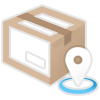
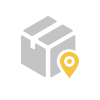
메뉴 아이콘, status 아이콘, 프로그레스 바, 정렬간격 등

diff --git a/app/styles/tab-order-info-styles.html b/app/styles/tab-order-info-styles.html
@@ -22,8 +22,8 @@ Copyright © HatioLab Inc. All rights reserved.
         border-radius: 12px;
       }
 
-      #status img[active] {
-        background-color: rgba(0, 0, 0, .3);
+      #status img:active {
+        background-color: rgba(0, 0, 0, .2);
         border-radius: 7px;
       }
 
@@ -34,7 +34,7 @@ Copyright © HatioLab Inc. All rights reserved.
       #prod-info {
         display: flex;
         flex-direction: row;
-        background-color: #5a6378;
+        background-color: rgba(255,255,255, .1);
         padding: 10px 20px;
         border-radius: 12px;
         color: rgba(255, 255, 255, .8);
@@ -97,6 +97,7 @@ Copyright © HatioLab Inc. All rights reserved.
       #status #chart {
         font-size: 1.5rem;
         font-weight: bold;
+        color: #333;
       }
 
       #status #chart span {
@@ -120,7 +121,7 @@ Copyright © HatioLab Inc. All rights reserved.
         display: flex;
         flex: 1;
         flex-direction: column;
-        margin-bottom: 15px;
+        margin-top: 20px;
       }
 
       #left-section,
@@ -129,8 +130,12 @@ Copyright © HatioLab Inc. All rights reserved.
         flex: 1;
         display: grid;
         grid-template-columns: auto 1fr;
-        margin-left: 7.5px;
-        margin-right: 7.5px;
+        /* margin-left: 7.5px; */
+        /* margin-right: 7.5px; */
+      }
+
+      #right-section{
+        margin-top: 15px;
       }
 
       #picked-qty,
@@ -138,6 +143,8 @@ Copyright © HatioLab Inc. All rights reserved.
         text-align: right;
         font-size: .5rem;
         line-height: 1.2;
+        color: #333;
+        font-weight: bold;
       }
 
       #picked-qty span,
@@ -165,16 +172,18 @@ Copyright © HatioLab Inc. All rights reserved.
         background: #90cc5d;
         background: linear-gradient(to bottom, #90cc5d 0%, #5a9802 100%);
         border-top: .06rem solid #cdff9a;
-        border-bottom: .2rem solid #2e7b00;
+        /* border-bottom: .2rem solid #2e7b00; */
         border-left: none;
         border-right: none;
         border-radius: 12px;
-        margin: 15px 0;
-        padding: .3rem;
+        /* margin: 15px 0;
+        padding: .3rem; */
+        padding: 22px 10px;
         color: #fff;
         text-shadow: 0px .03rem .03rem rgba(0, 0, 0, 0.4);
         font-size: 1rem;
         outline: 0;
+        margin-right: 15px;
       }
 
       button:active {
@@ -243,10 +252,13 @@ Copyright © HatioLab Inc. All rights reserved.
         border-radius: var(--things-default-border-radius);
         margin: 5px;
         text-align: right;
+        padding: 7px;
+        font-size: 23px;
+        font-weight: bold;
       }
 
       .bar-chart #progress-bar {
-        background-color: #01c9c6
+        background-color: #3f89c9;
       }
     </style>
   </template>

diff --git a/app/scripts/fragments/common/menu-tiles.html b/app/scripts/fragments/common/menu-tiles.html
@@ -18,17 +18,18 @@ Copyright © HatioLab Inc. All rights reserved.
       }
       menu-tile{
         display:block;
-        margin-bottom:5px;padding:5px 0 15px 0;
-        border-bottom: 1px solid rgba(0,0,0,.2);
+        margin-bottom:5px;
+        padding:5px;
+        /* border-bottom: 1px solid rgba(0,0,0,.2); */
         background: rgba(0,0,0,.2);
         background: linear-gradient(to bottom,#312e2e 20%,#252222 100%);
         text-align:center;
         font-size:.4rem;
         color:rgba(255,255,255,.5);
       }
-      menu-tile[active]{
+      menu-tile:active{
         background-color:var(--things-secondary-background-color);
-        border:1px solid rgba(0,0,0,.2);border-width:1px 0;
+        /* border:1px solid rgba(0,0,0,.2);border-width:1px 0; */
         color:rgba(255,255,255,1);
       }
       menu-tile img{
@@ -37,7 +38,7 @@ Copyright © HatioLab Inc. All rights reserved.
         width:2.5rem;
         opacity:.8;
       }
-      menu-tile[active] img{
+      menu-tile:active img{
         opacity:1
       }
     </style>

diff --git a/app/scripts/components/common/item-list.html b/app/scripts/components/common/item-list.html
@@ -167,12 +167,12 @@ Copyright © HatioLab Inc. All rights reserved.
         color:#fff;
       }
       #paginator iron-icon{
-        background: linear-gradient(to bottom, #6a7da1 0%, #53627f 100%);
+        background: linear-gradient(to bottom, #5a5959 0%, #383737 100%);
         padding:0 3px;
         color: #7f95bd;
       }
       #paginator iron-icon:active{
-        background: linear-gradient(to bottom, #2f4063 0%, #5173b3 100%);
+        background: linear-gradient(to bottom, #3c3c3c 0%, #303030 100%);
       }
       #paginator iron-icon.prevPage{
         -webkit-border-top-left-radius: 10px;
@@ -199,7 +199,7 @@ Copyright © HatioLab Inc. All rights reserved.
         justify-content: flex-end;
       }
       #paginator span, #page-summary span {
-        color: #7f95bd;
+        color: silver;
         margin-top: auto; margin-bottom: auto;
       }
       input#page, input#limit {

diff --git a/app/scripts/components/logis/job-progress-bar.html b/app/scripts/components/logis/job-progress-bar.html
@@ -15,11 +15,12 @@ Copyright © HatioLab Inc. All rights reserved.
         display: grid;
         height:70px;
         grid-template-columns: 1fr 1fr 1fr 1fr;
-        background:url(../../../images/bg_prodprocess.png) 0 100% repeat-x #667495;
-        border-top:.03rem solid #93a4bd;border-bottom:.03rem solid #2f333c;
+        background:url(../../../images/bg_prodprocess.png) 0 100% repeat-x #616161;
+        border-top:.03rem solid #6d6d6d;border-bottom:.03rem solid #2f333c;
         border-radius:12px;
         box-shadow: 0px .03rem .03rem rgba(0, 0, 0, 0.2);
         line-height:65px;
+        margin-top: 15px;
       }
       .job-block{
         position:relative;

diff --git a/app/scripts/fragments/logis/b2c/pick/b2c-picking-job.html b/app/scripts/fragments/logis/b2c/pick/b2c-picking-job.html
@@ -58,7 +58,7 @@ Copyright © HatioLab Inc. All rights reserved.
 
       button#done-btn {
         margin-left: .5rem;
-        width: 200px;
+        width: 130px;
       }
 
       img#qr-done {
